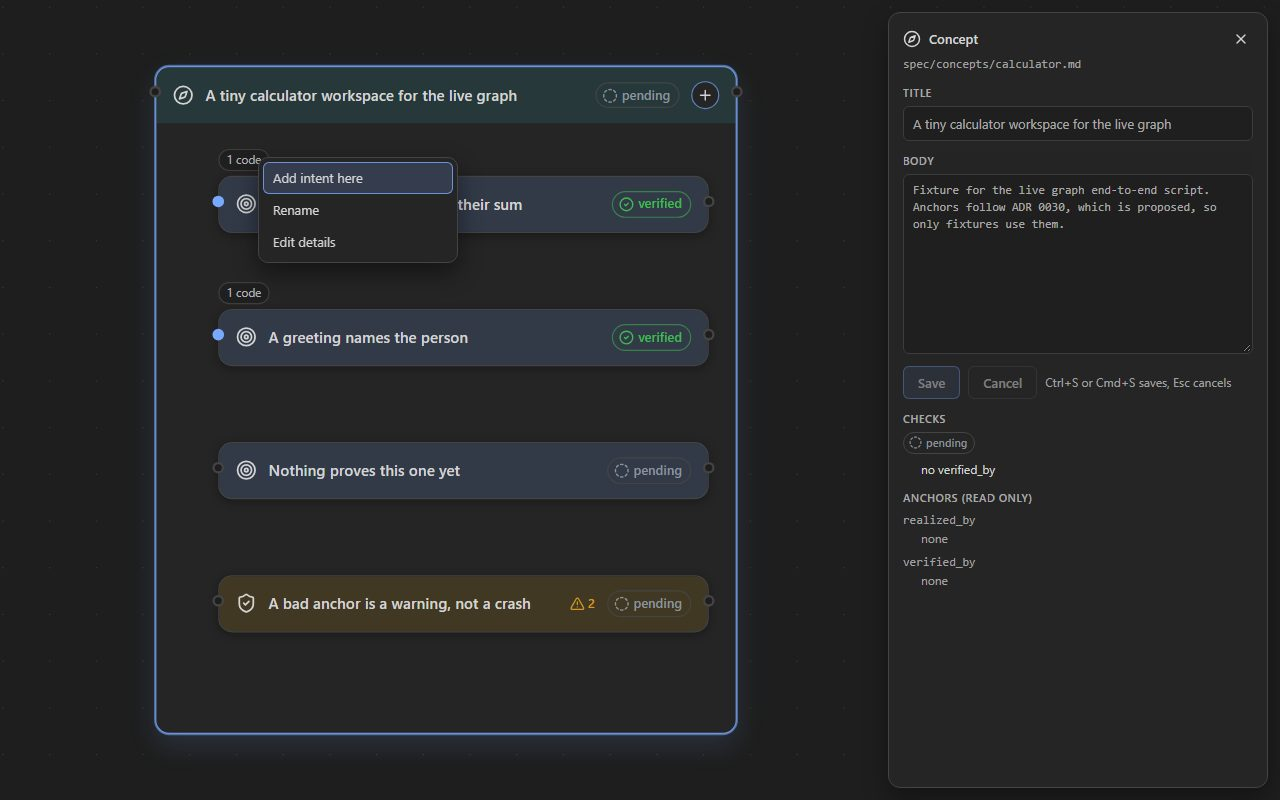
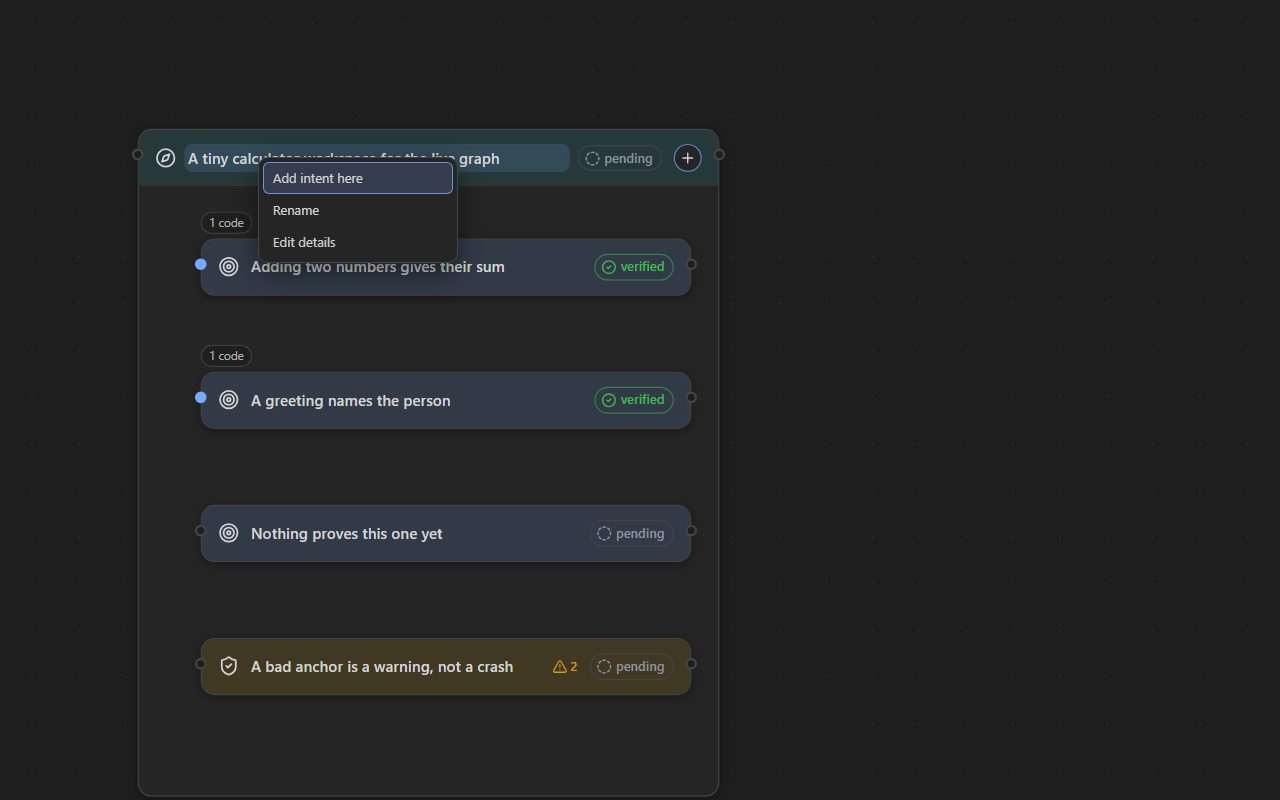
board, devlog and frames for the editing by wire merge

diff --git a/docs/05 - Log/Devlog.md b/docs/05 - Log/Devlog.md
@@ -134,3 +134,22 @@ A few lines per milestone: what happened, why it matters, the evidence. Newest a
 - One red on `day-2` after the merge was the script, not the product: it looked for the server's second start-up line the moment it saw the first. Three reruns passed unchanged. The script now waits for the line it checks.
 
 **Not yet.** A right-click also opens the side panel, so the view shifts under the open menu (lane 8). A code node's title was not tested, since none is on screen in the example.
+
+### 2026-11-27, 3:30 PM  Editing by wire merged to day-2
+
+**What happened.** Lane 8: drag from a node's output pin to another node's input pin and the node hangs under the new parent. While dragging, the nodes that can take the wire are outlined and the rest are dimmed. A selected wire is removed with Delete or from its right-click menu. A node dragged into another concept box moves there, and the box lights up when it would take it. Every change shows a notice in a strip under the canvas with an Undo button, and Ctrl+Z or Cmd+Z undoes it unless a text field has the focus. A right-click now opens the menu and nothing else.
+
+**How it works underneath.** A spec file holds one relation today, `parent`, so connect, disconnect and move are one edit: the writer sets or removes that line and `updated`, and keeps every other byte. The server runs every write one at a time, in the order it arrived. It checks a parent change against the spec files on disk at that moment and refuses a missing target, the node itself, a code node, a pair of kinds that do not fit, and a loop. It remembers its last 20 writes, and undo puts a file back byte for byte, or refuses if the file changed since.
+
+**Why it matters.** The owner's bar is that editing on the graph is easy and intuitive. With lane 7 this makes the graph a place to rearrange a spec by hand, and undo makes it safe to try.
+
+**Evidence.** On `day-2` at `9fc7885`: `PASS all (56.4s) - 4 steps, 391 tests`, `PASS e2e-edit (72.2s)` with real mouse drags, and `e2e-live`, `e2e-wires` and `e2e-drift-marks` pass. The orchestrator's two probes pass: 3 of 3 on loops and the empty parent line, 5 of 5 on the first double-click.
+
+**What the verifier caught.** Fifteen of nineteen checks passed, including byte-exact writes on a file with comments and Windows line endings, undo order, and the token and origin guards. Three were real faults. Two parent changes sent back to back both passed the check against a graph that had not been rebuilt yet, and left a loop on disk. An empty `parent:` line could not be set, because the writer left out a space. A drag made while a rename was still being saved vanished without a word. A second, smaller agent fixed all three. The orchestrator's probe, which wrote a loop six times out of six on the unfixed code, now gets one accepted and one refused every time. A second verifier then passed 10 of 10: ten loop attempts refused, six writes at once each landed whole, and every undo restored its file byte for byte.
+
+**Calls taken.**
+- The fix went to a fresh agent with a tight brief, not back to the builder.
+- That agent reported a green gate, and the gate was red on the orchestrator's run: two of its new tests sent requests together and expected the first one sent to win, which no network promises. The orchestrator rewrote those two tests to check what must always hold. Test code only.
+- On the way the builder found and fixed a crash: a Windows file lock during a write took the server down. Writes now retry.
+
+**Not yet.** Nobody has tried this with a real mouse in a real window. A spec file with no `parent` key is not a node, so it cannot be connected from the canvas. Relations other than `parent` do not exist in the spec format.

diff --git a/docs/06 - Tasks/Board.md b/docs/06 - Tasks/Board.md
@@ -11,11 +11,7 @@ Open work only. A finished lane moves to the [[Devlog]] in the same turn. Rules:
 
 The owner on 2026-11-27, paraphrased: editing on the graph has to be easy and intuitive, and every lane ends with polish.
 
-| Lane | What | Branch | Status | Evidence |
-|---|---|---|---|---|
-| 8 editing by wire | Drag from a pin to connect, delete a wire, drag an intent into another concept, undo. Lane note: [[wire-edit]] | `wire-edit` | building | |
-
-Lane 7 (direct editing: rename in place, a right-click menu, a plus in the concept header) is merged into `day-2`. See the [[Devlog]]. Frames: `docs/05 - Log/Frames/2026-11-27 Day 2/README.md`.
+None is building. Lane 7 (direct editing: rename in place, a right-click menu, a plus in the concept header) and lane 8 (editing by wire: connect, disconnect, move, undo) are merged into `day-2`. See the [[Devlog]]. Frames with a verdict each: `docs/05 - Log/Frames/2026-11-27 Day 2/README.md`.
 
 ## An experiment, kept or dropped after a look
 
@@ -25,6 +21,7 @@ Lane 7 (direct editing: rename in place, a right-click menu, a plus in the conce
 
 ## Waiting on the owner
 
+0. **Merge `day-2` into `main`?** Lanes 7 and 8, after a look at the frames or a try: `node tools/e2e-edit.mjs --serve`.
 1. **Nesting, which variant?** Open in place (the intent grows into a box with its code inside), step inside (double-click enters the intent, with a way back), both side by side, or skip. Recommended: both, small, so the pick is made on frames.
 2. **ADR 0030, the anchor format.** Accept it? Until then anchors live only on fixtures, so every node of this repo shows pending, no wire runs from a spec node to code, and nesting has nothing real to show.
 3. **Which words are target kinds?** `spec/intents/README.md` and all 12 intents of this repo use `module` and `api`. The code schema (`packages/shared/src/schemas/node.ts:31`) only knows node kinds such as `code_module`, and the new-intent form offers those nine. Recommended: the README's words.
@@ -44,6 +41,8 @@ Lane 7 (direct editing: rename in place, a right-click menu, a plus in the conce
 
 ## Known
 
+- A spec file can hold one relation today, `parent`. Connecting, disconnecting and moving a node all write that one field. Other relations (constrains, supersedes, depends on) would need a change to the spec format first.
+- A spec file with no `parent` key at all is not a node (ADR 0009 requires the key), so it cannot be given a parent from the canvas.
 - Two constraint wires cross each other on this repo's first view. One pin per node gives the layout nothing to order them by.
 - The new-intent form lists nine raw kind names. See call 3.
 - Anchors are parsed twice: `packages/skill/src/parser/spec-md/anchors.ts` and inside `packages/skill/src/drift/`. One of them should go.

diff --git a/docs/05 - Log/Frames/2026-11-27 Day 2/README.md b/docs/05 - Log/Frames/2026-11-27 Day 2/README.md
@@ -10,6 +10,21 @@ Every frame was taken by a script on committed code, on the small calculator exa
 | ![7c](7c-menu-read-only.jpg) | ![7d](7d-plus-in-header.jpg) |
 
 - **7a, rename in place.** Works: a double-click on a title opens a field right on the node with the text selected. Enter saves, Esc cancels. The node keeps its size and its marks. This frame is a first double-click on a node that was not selected, the case the verifier found broken and a second agent fixed.
-- **7b, the right-click menu.** Works: on a concept it offers "Add intent here", "Rename" and "Edit details", and the plus in the header does the first of these. Not yet: the right-click also opens the side panel, so the view shifts under the open menu and the menu ends up over another node. Lane 8 takes that.
+- **7b, the right-click menu.** Works: on a concept it offers "Add intent here", "Rename" and "Edit details", and the plus in the header does the first of these. Retaken after lane 8, where a right-click stopped opening the side panel, so the view no longer shifts under the menu.
 - **7c, the menu in read only.** Works: the edit entries are disabled and say why. Seen by the verifier, not looked at again after the fix.
 - **7d, the plus in the concept header.** Works: it replaces the floating button that could be cut off at the top edge.
+
+## Lane 8: editing by wire
+
+| | |
+|---|---|
+| ![8a](8a-dragging-a-wire.jpg) | ![8b](8b-connected-with-undo.jpg) |
+| ![8c](8c-moving-into-a-concept.jpg) | ![8d](8d-moved-with-undo.jpg) |
+
+- **8a, dragging a wire.** Works: a wire is pulled from a constraint's pin. The nodes that can take it are outlined in green, the rest are dimmed.
+- **8b, connected.** Works: the constraint now hangs under the intent it was dropped on, and a notice says what happened, with an Undo button. Taken before the notices moved into their own strip, see `8d` for where they sit now.
+- **8c, moving a node.** Works: an intent is dragged over another concept, and that box lights up because it would take it.
+- **8d, moved.** Works: the intent sits in its new concept. The notice is in a strip under the canvas and covers no node.
+- **8e, a refused drop** (`8e-refused-drop.jpg`). Works: "An intent can only hang under a concept, not a constraint. Nothing was changed."
+
+Not yet, for both lanes: these frames are zoomed out, so the text is small. A code node's title was never tested. Nobody has tried any of it with a real mouse in a real browser window.
